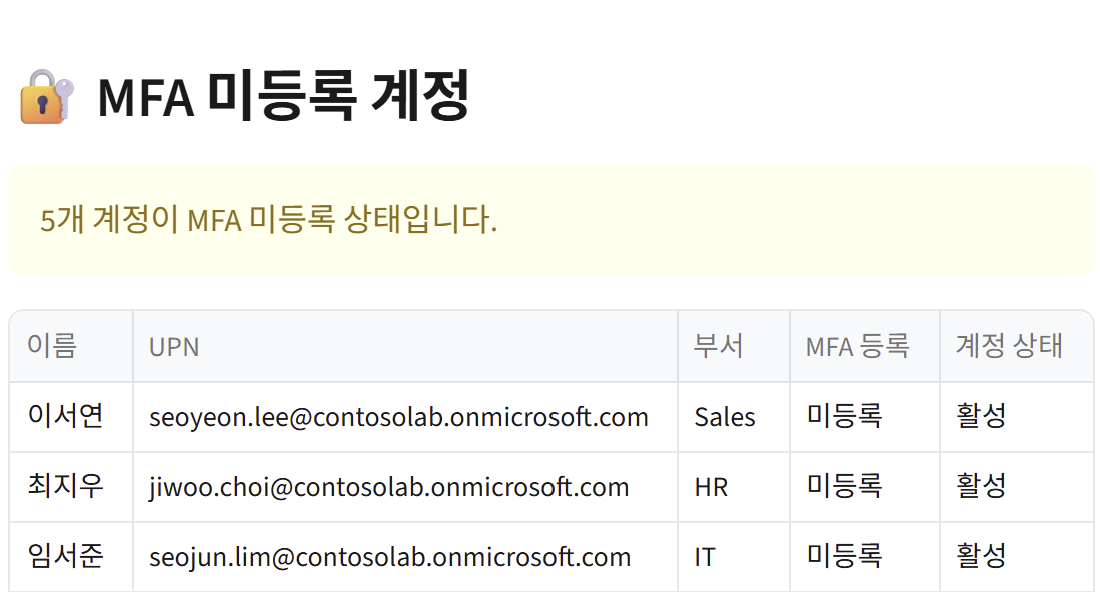
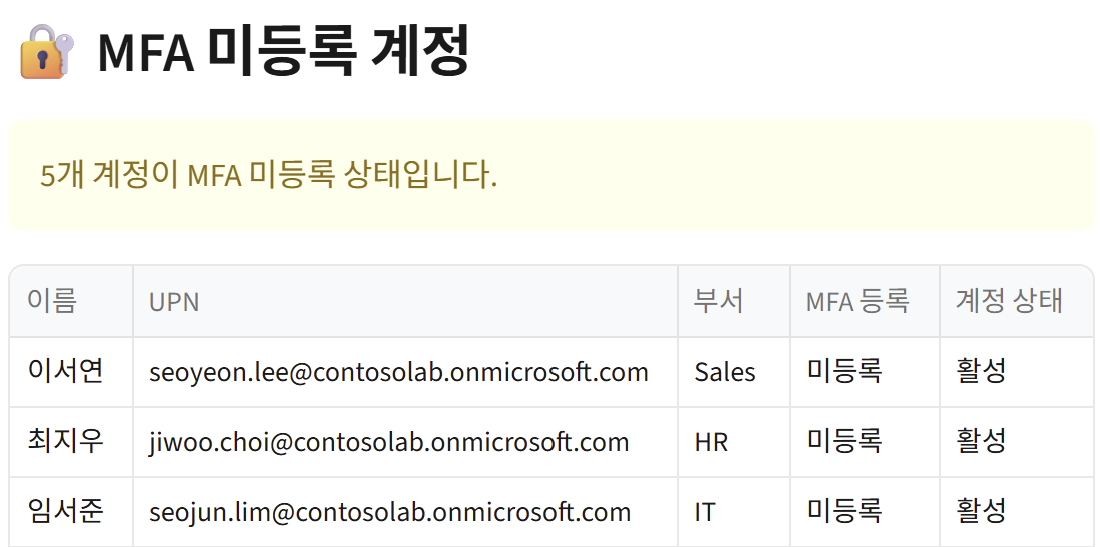
README 스크린샷 크기 축소 및 정리
- 여백 자동 트리밍, 640px 고정폭으로 가운데 정렬해 통일감 있게 표시

diff --git a/README.md b/README.md
@@ -17,7 +17,9 @@ Microsoft Graph API로 대부분 자동화할 수 있는 작업인데도, 실무
 ### 1. 사용자 라이프사이클 자동화
 입사자 온보딩(계정 생성 → 라이선스 할당 → 그룹 추가)과 퇴사자 오프보딩(계정 비활성화 → 로그인 세션 강제 종료)을 한 번의 실행으로 처리합니다. 각 단계의 성공/실패를 개별적으로 기록해, 중간에 한 단계가 실패해도 전체를 처음부터 다시 하지 않고 실패한 부분만 확인할 수 있습니다.
 
-![사용자 라이프사이클 자동화 - 온보딩 실행 결과](docs/screenshots/onboarding.png)
+<p align="center">
+  <img src="docs/screenshots/onboarding.png" width="640" alt="사용자 라이프사이클 자동화 - 온보딩 실행 결과">
+</p>
 
 ### 2. 라이선스·보안 감사 리포트
 - **라이선스 사용률**: 구매했지만 배정되지 않은 라이선스(비용 낭비 후보) 자동 집계
@@ -26,12 +28,16 @@ Microsoft Graph API로 대부분 자동화할 수 있는 작업인데도, 실무
 
 매달 엑셀로 사용자 목록을 내려받아 눈으로 확인하던 작업을 대체합니다. 모든 리포트는 CSV로 다운로드할 수 있습니다.
 
-![라이선스·보안 감사 - MFA 미등록 계정 리포트](docs/screenshots/audit.png)
+<p align="center">
+  <img src="docs/screenshots/audit.png" width="640" alt="라이선스·보안 감사 - MFA 미등록 계정 리포트">
+</p>
 
 ### 3. 헬프데스크 어시스턴트 (Claude API)
 IT 헬프데스크로 들어오는 문의를 Claude API가 자동으로 분류(카테고리·우선순위·관리자 조치 필요 여부)하고, 담당자가 바로 검토·발송할 수 있는 답변 초안까지 생성합니다. 정해진 JSON 스키마로만 응답하도록 시스템 프롬프트를 설계해, LLM 출력을 안정적으로 파싱할 수 있게 했습니다.
 
-![헬프데스크 어시스턴트 - Claude API 분류 및 답변 초안 결과](docs/screenshots/helpdesk.png)
+<p align="center">
+  <img src="docs/screenshots/helpdesk.png" width="640" alt="헬프데스크 어시스턴트 - Claude API 분류 및 답변 초안 결과">
+</p>
 
 ## 아키텍처
 
